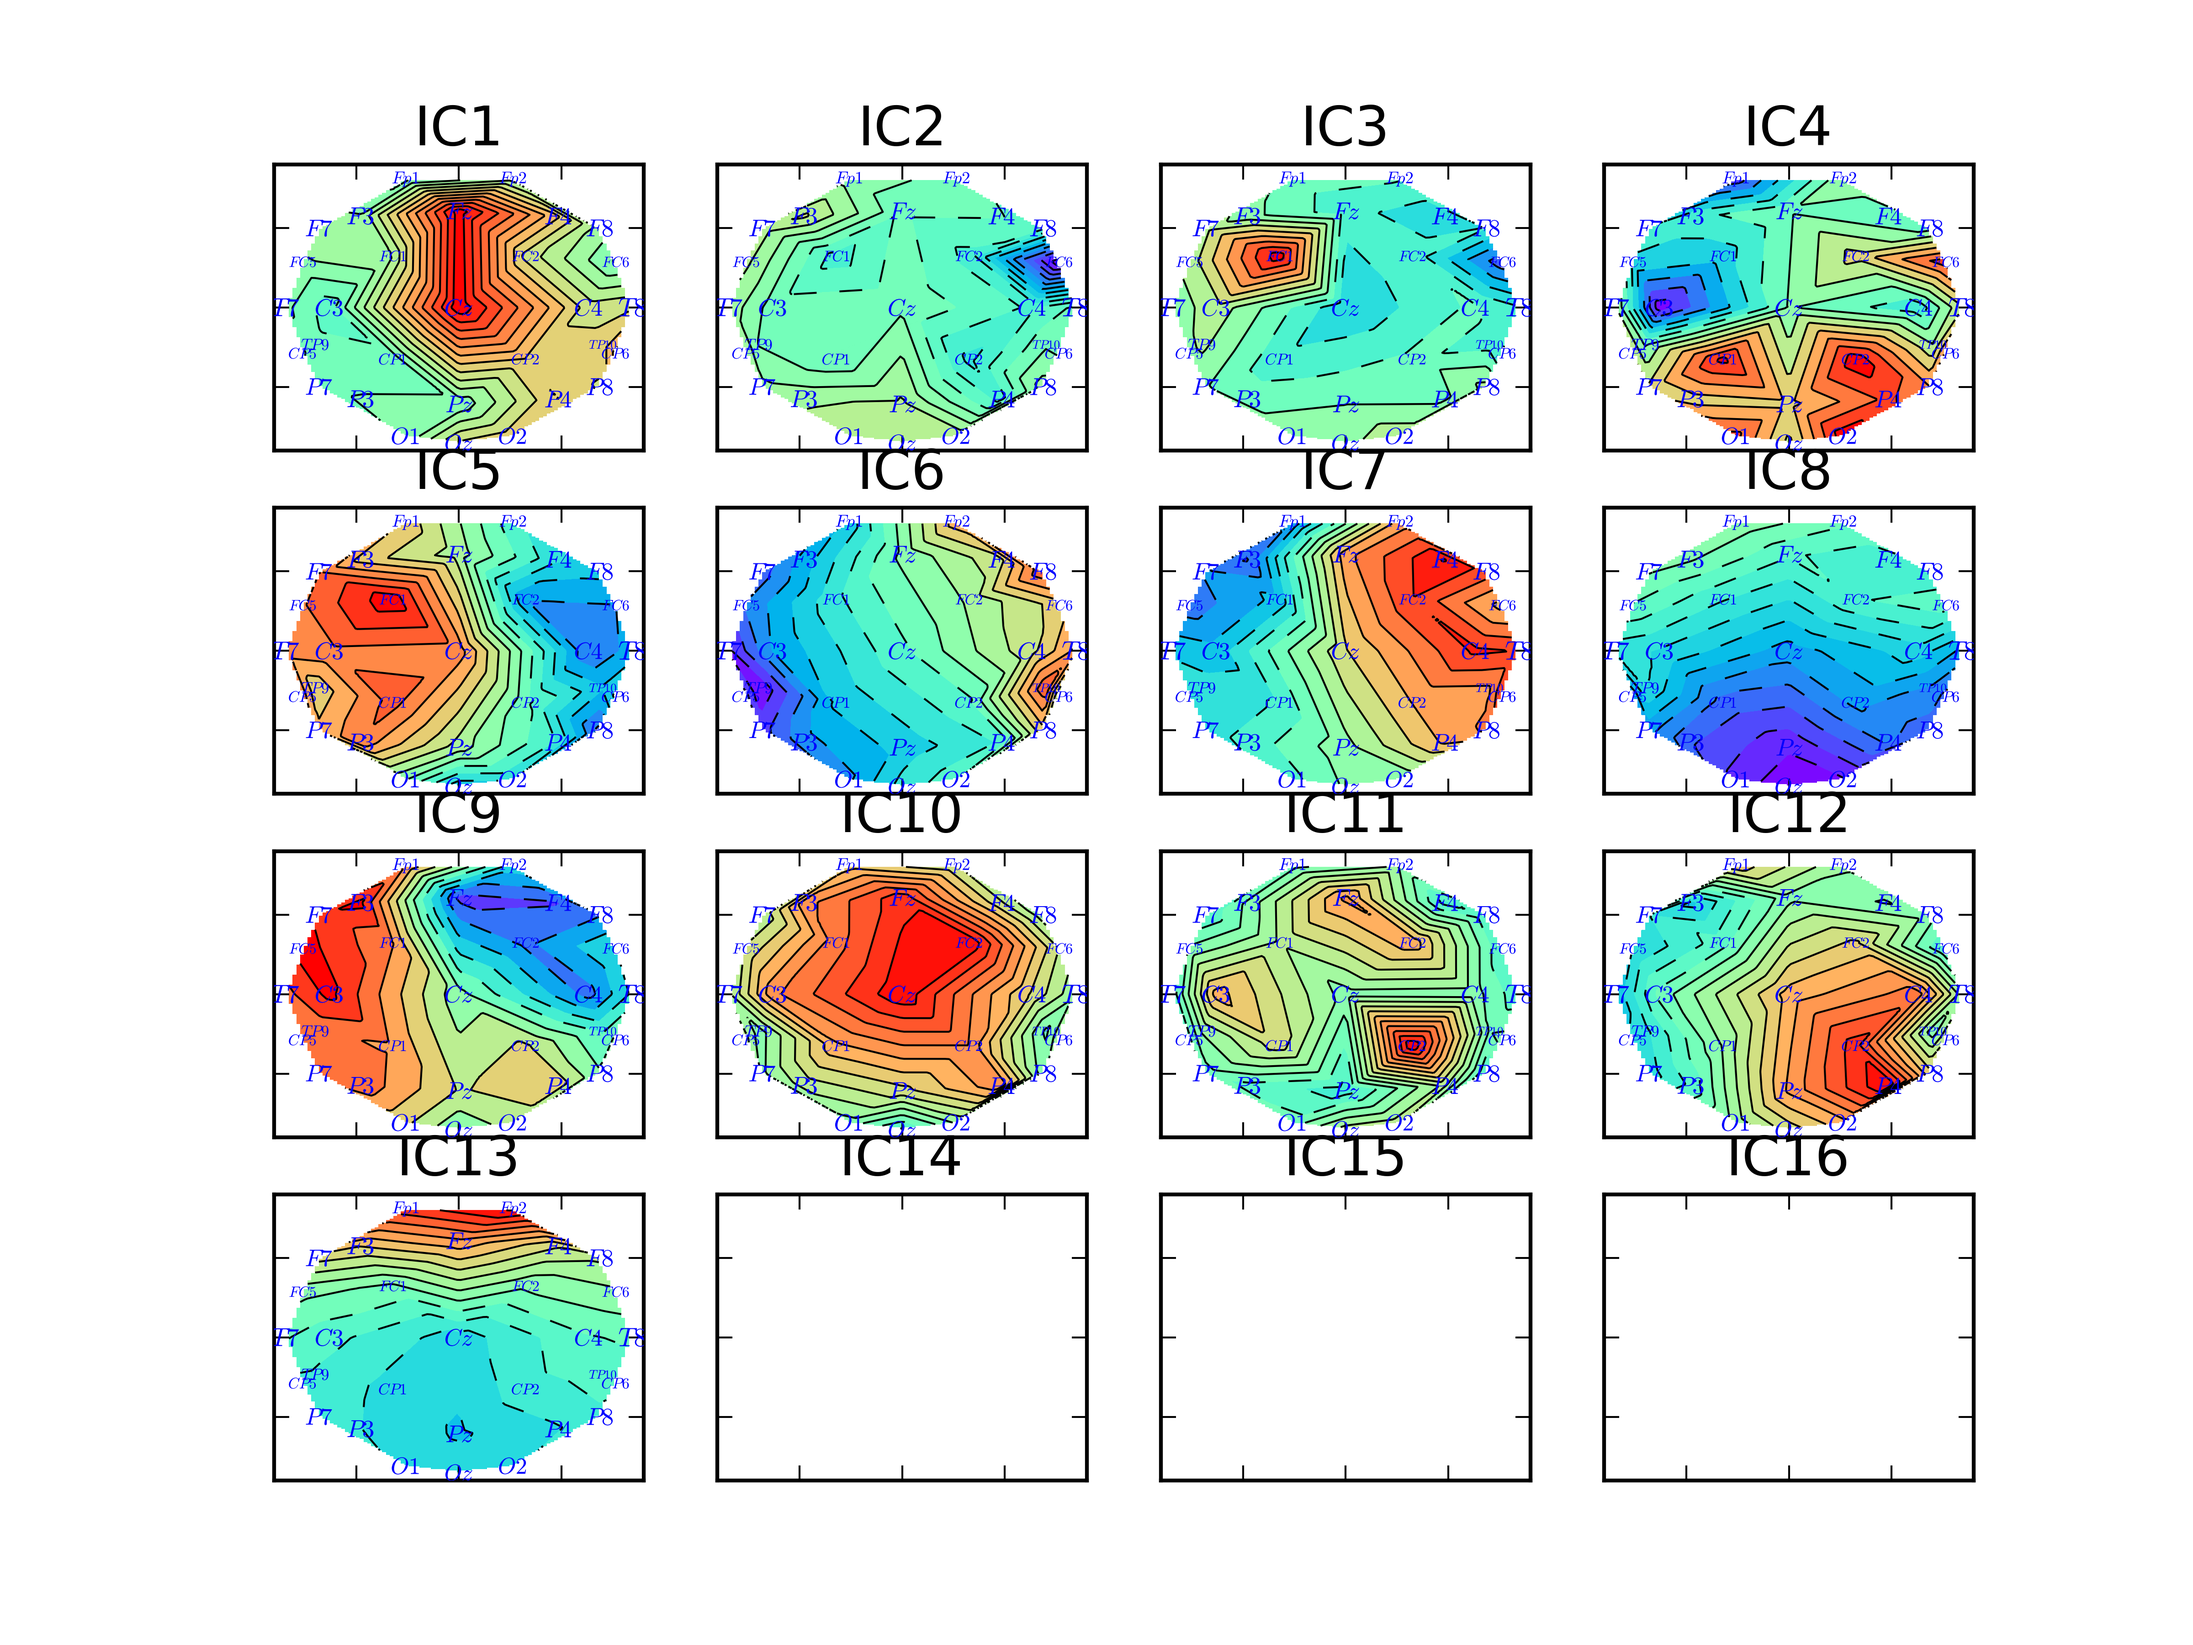
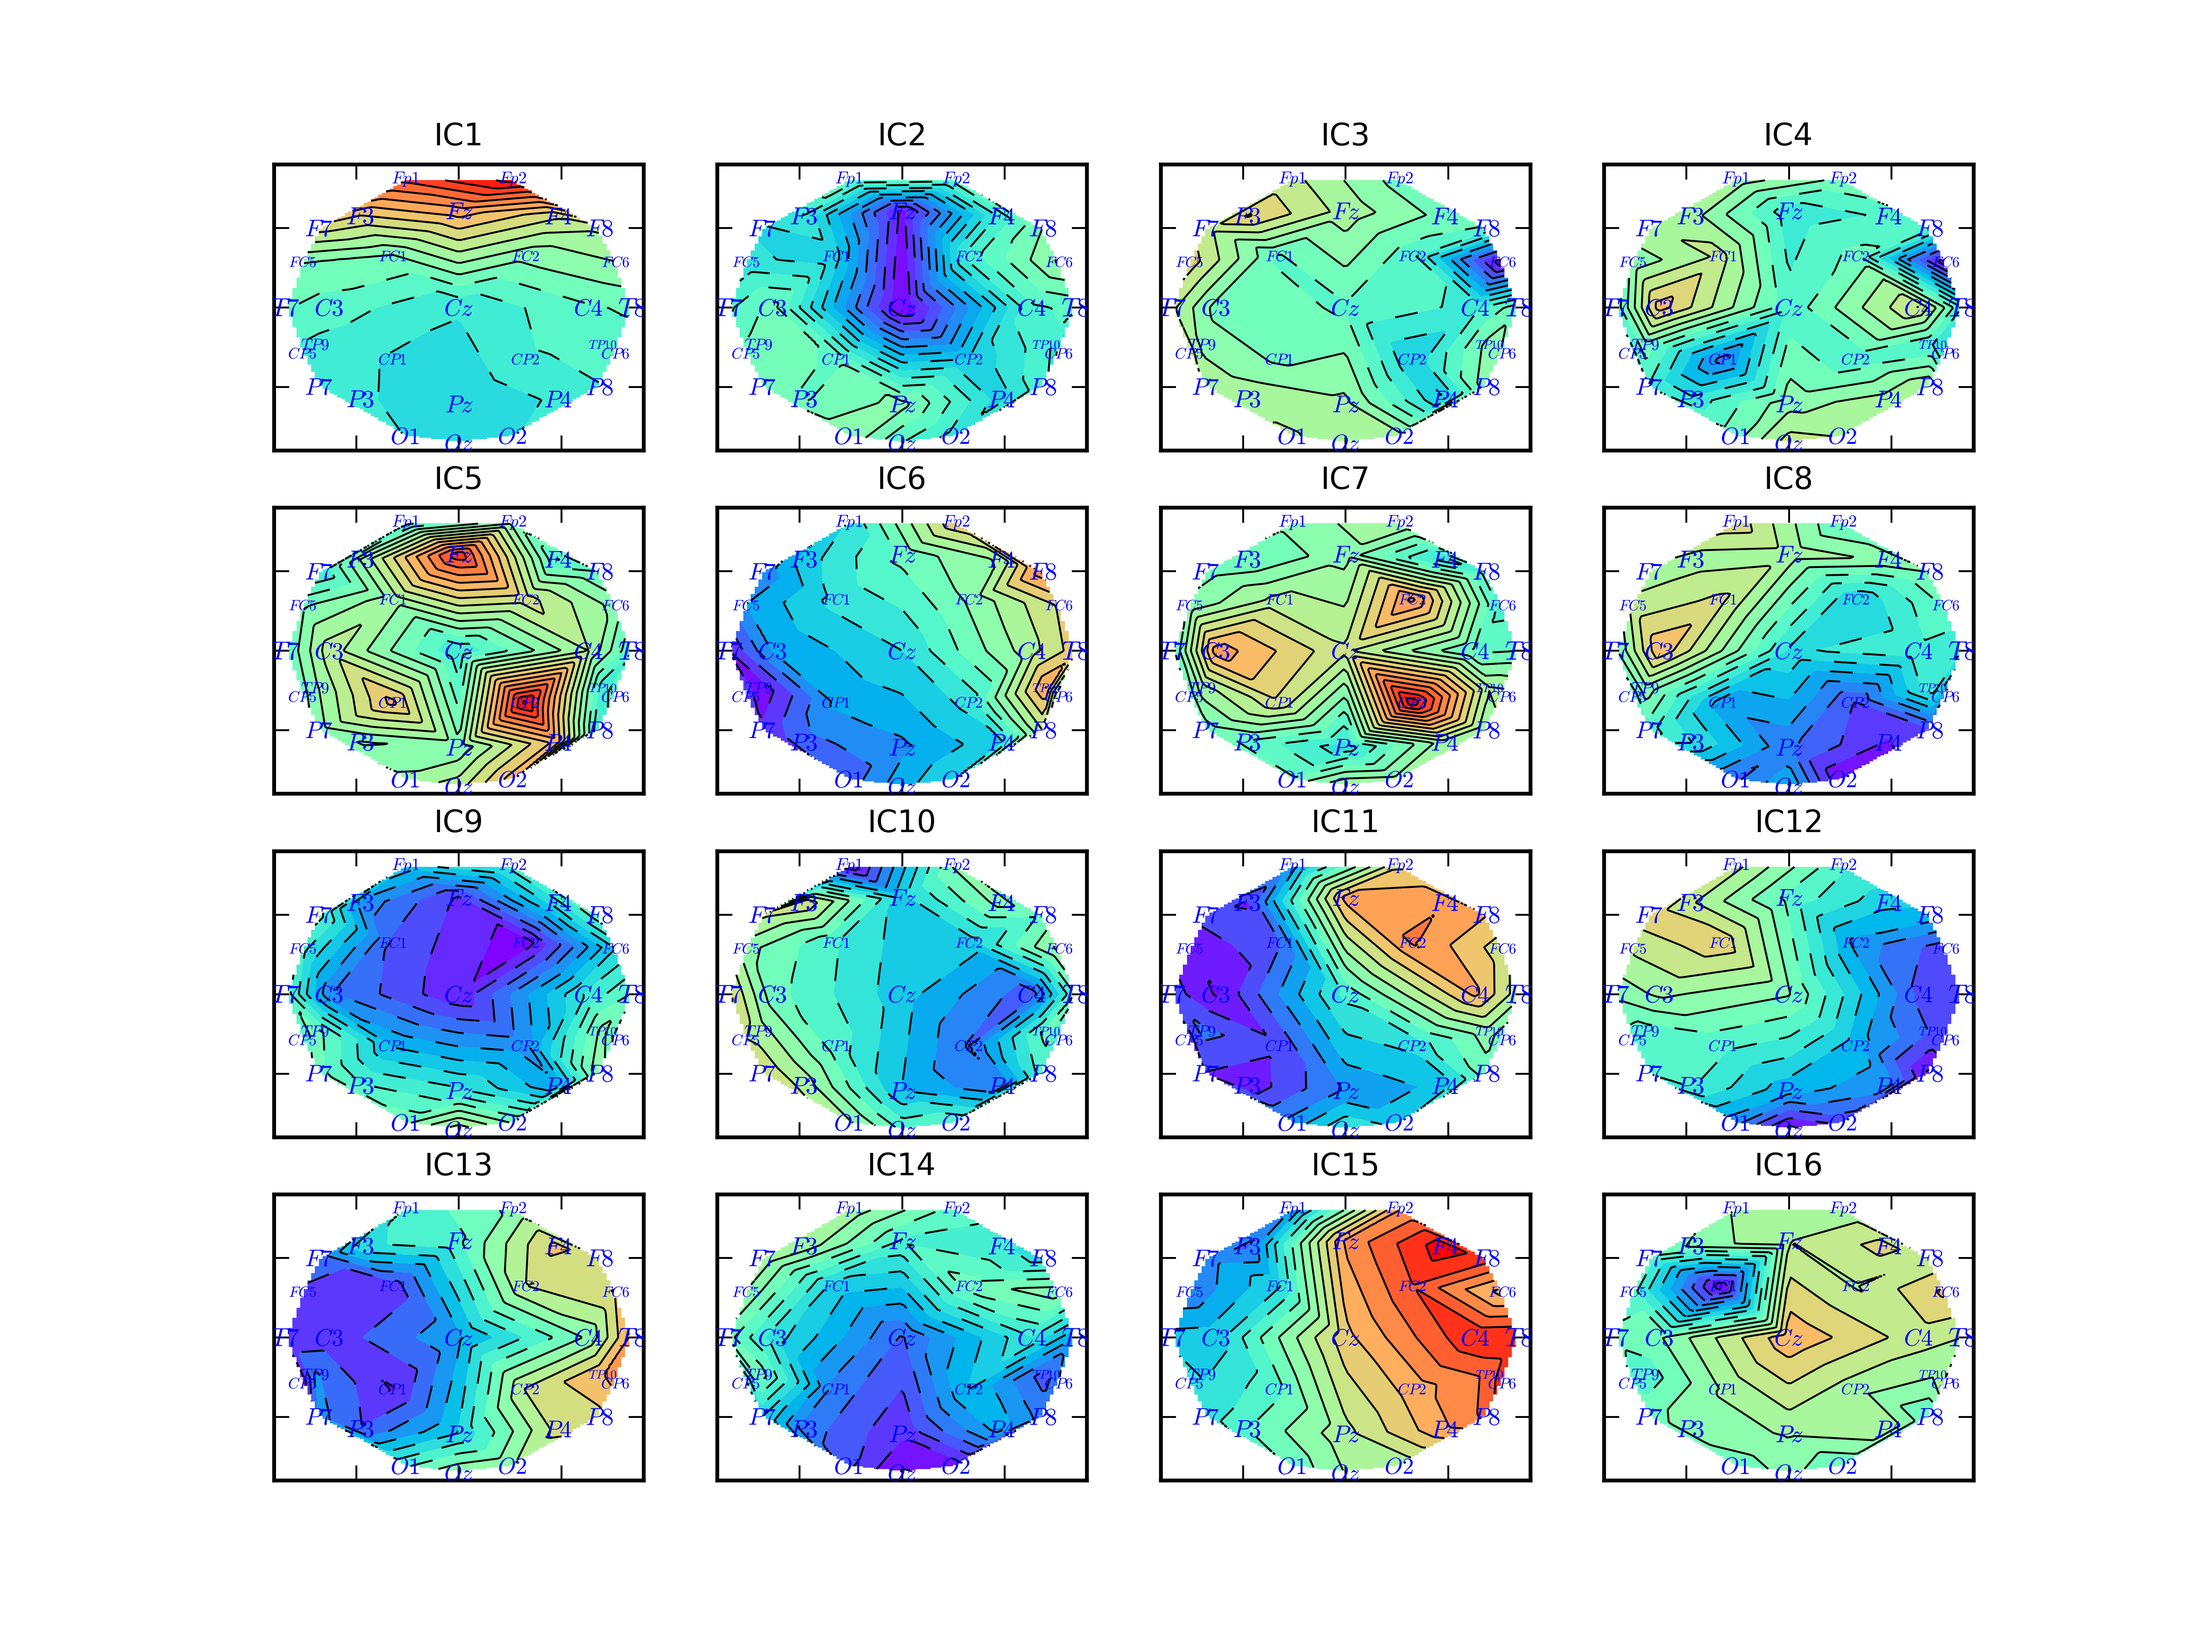
Nicer pictures

diff --git a/Exercise/Frans/plot_microstates.py b/Exercise/Frans/plot_microstates.py
@@ -32,7 +32,8 @@ start = idx[0]+1500
 X = eeg[start:,0:30]
 X_scaled = preprocessing.scale(X)
 
-ica = FastICA(n_components=13)
+nICs = 16
+ica = FastICA(n_components=nICs)
 S = ica.fit_transform(X_scaled) # temporal
 A = ica.mixing_ # spatial 
 print "Done with ICA"
@@ -41,14 +42,14 @@ print "Done with ICA"
 plt.clf()
 xi = np.linspace(-90, 90, 100)
 yi = np.linspace(-90, 90, 200)
-for i in range(1,17):
+for i in range(1,nICs+1):
     ax = plt.subplot(4,4,i)
     ax.set_xticklabels([])
     ax.set_yticklabels([])
     plt.xlim(-90, 90)
     plt.ylim(-90, 90)
     # grid the data.
-    if i <= 13:
+    if i <= nICs:
         zi = griddata(coords[:,0], coords[:,1], A[:,i-1], xi, yi, interp='linear')
         # contour the gridded data, plotting dots at the nonuniform data points.
         ax.contour(xi, yi, zi, 15, linewidths=0.5, colors='k')
@@ -57,16 +58,26 @@ for i in range(1,17):
         # plot data points.
         for c in range(len(channames)):
             ax.scatter(coords[c,0], coords[c,1], marker=r"$ {} $".format(channames[c]) , c='b', s=50, zorder=10, edgecolors='none')
-    plt.title('IC%d' %(i))
+    plt.title('IC%d' %(i),size=8)
 #plt.title('Microstates?')
 plt.savefig("spatial_white_13.png",dpi=600)
 
 plt.clf()
-for i in range(13):
+for i in range(nICs):
     ax.set_xticklabels([])
     ax.set_yticklabels([])
-    ax = plt.subplot(13,1,i+1)
+    ax = plt.subplot(nICs,1,i+1)
     ax.plot(range(S.shape[0]),S[:,i],linewidth=0.2)
-    plt.title('IC%d' %(i+1))
+    plt.title('IC%d' %(i+1),size=8)
 #plt.title('Temporal components')
 plt.savefig("temporal_white_13.png",dpi=600)
+
+plt.clf()
+for i in range(nICs):
+    ax.set_xticklabels([])
+    ax.set_yticklabels([])
+    ax = plt.subplot(nICs,1,i+1)
+    ax.plot(range(50000),S[:50000,i],linewidth=0.2)
+    plt.title('IC%d' %(i+1),size=8)
+#plt.title('Temporal components')
+plt.savefig("temporal_white_ten_sec.png",dpi=600)
